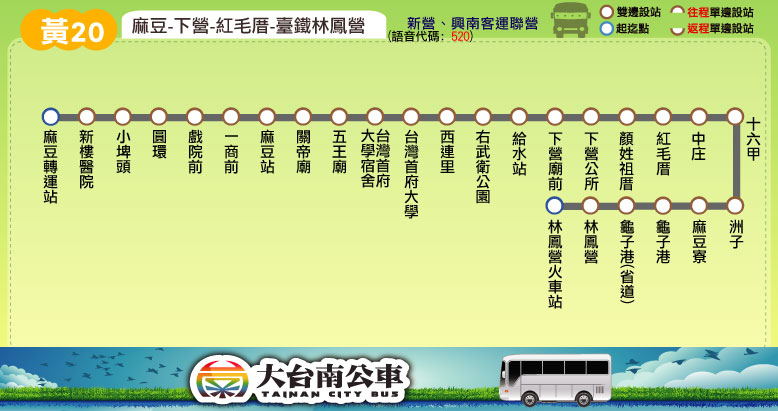
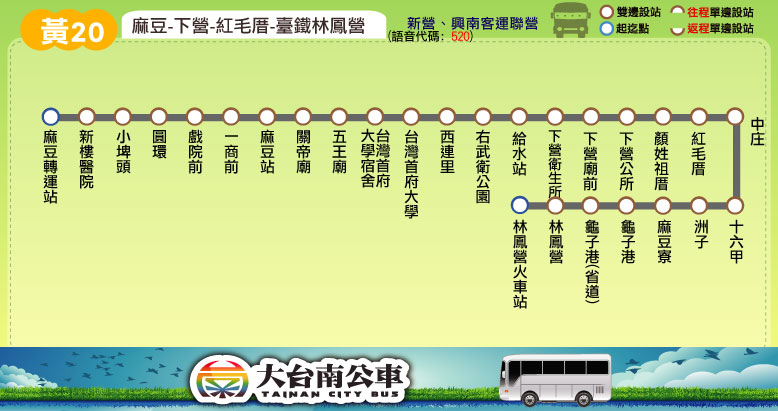
新增站點：黃幹線、黃20、橘11 新增「下營衛生所」

Changed region(s): [[0.6478, 0.3212, 0.9563, 0.7591], [0.9563, 0.292, 0.9871, 0.3796]]

diff --git a/route/fare_and_time/orange_11.js b/route/fare_and_time/orange_11.js
@@ -1,6 +1,6 @@
 orange_11_interval_name = ["下營","中營","麻豆","安業","謝厝寮","後營","西港","海寮","管寮","南安","港口","六塊寮","中崙","和順","北安路","臺南"];
 orange_11_interval_stop = [
-["下營公所","下營廟前","給水站","右武衛公園"], // 下營
+["下營公所","下營廟前","下營衛生所","給水站","右武衛公園"], // 下營
 ["中營路口","中營"], // 中營
 ["關帝廟","麻豆監理站","小埤頭","新樓醫院","麻豆轉運站","圓環","戲院前","麻豆分局","巷口","黎明中學","後寮","四六廍"], // 麻豆
 ["東勢","派出所","南安業"], // 安業
@@ -17,7 +17,6 @@ orange_11_interval_stop = [
 ["北安路四段","清虛宮","培安路口","長溪路口","安中路口","安通路口","聖安街口"], // 北安路
 ["福安宮","鄭子寮","國際城","六甲里西","小北商場","公園北路","臺南二中","臺南公園(北門路)","臺南火車站","臺南公園(公園路)"] // 臺南
 ];
-orange_11_stop_time_consume = [0,2,4,7,8,12,15,20,23,25,27,28,30,31,32,34,35,36,37,38,39,40,41,43,44,45,46,51,55,58,59,61,61,62,63,65,66,67,68,69,70,70,71,74,75,77,79,80,81,83,84,85,86,87,89,91,92,93,98];
 orange_11_fare = [
 [26],
 [26,26],

diff --git a/route/fare_and_time/yellow_20.js b/route/fare_and_time/yellow_20.js
@@ -2,7 +2,7 @@ yellow_20_interval_name = ["麻豆","西連里","下營","麻豆寮","龜子港"
 yellow_20_interval_stop = [
 ["麻豆轉運站","新樓醫院","小埤頭","圓環","戲院前","一商前","麻豆站","關帝廟","五王廟","臺灣首府大學宿舍","臺灣首府大學"], // 麻豆
 ["西連里"], // 西連里
-["右武衛公園","給水站","下營廟前","下營公所","顏姓祖厝","紅毛厝"], // 下營
+["右武衛公園","給水站","下營衛生所","下營廟前","下營公所","顏姓祖厝","紅毛厝"], // 下營
 ["中庄","十六甲","洲子","麻豆寮"], // 麻豆寮
 ["龜子港","龜子港(省道)"], // 龜子港
 ["林鳳營","林鳳營火車站"] // 林鳳營

diff --git a/route/fare_and_time/yellow.js b/route/fare_and_time/yellow.js
@@ -11,7 +11,7 @@ yellow_interval_stop = [ // 2015.08.31 checked
 ["柳營奇美醫院","鳳和中學","柳營火車站","中華電信","柳營","新榮中學","東又悅公司"], // 柳營
 ["嘉南駕訓班","龜子港"], // 龜子港
 ["麻豆寮","洲子","嘉鴻公司"], // 麻豆寮
-["下營國中","農會超市","下營公所","下營廟前","給水站","右武衛公園"], // 下營
+["下營國中","農會超市","下營公所","下營廟前","下營衛生所","給水站","右武衛公園"], // 下營
 ["中營路口","中營"], // 中營
 ["五王廟前","麻豆公所","興中、民生路口","一商前","戲院前","圓環","小埤頭","新樓醫院","麻豆轉運站"] // 麻豆
 ];
